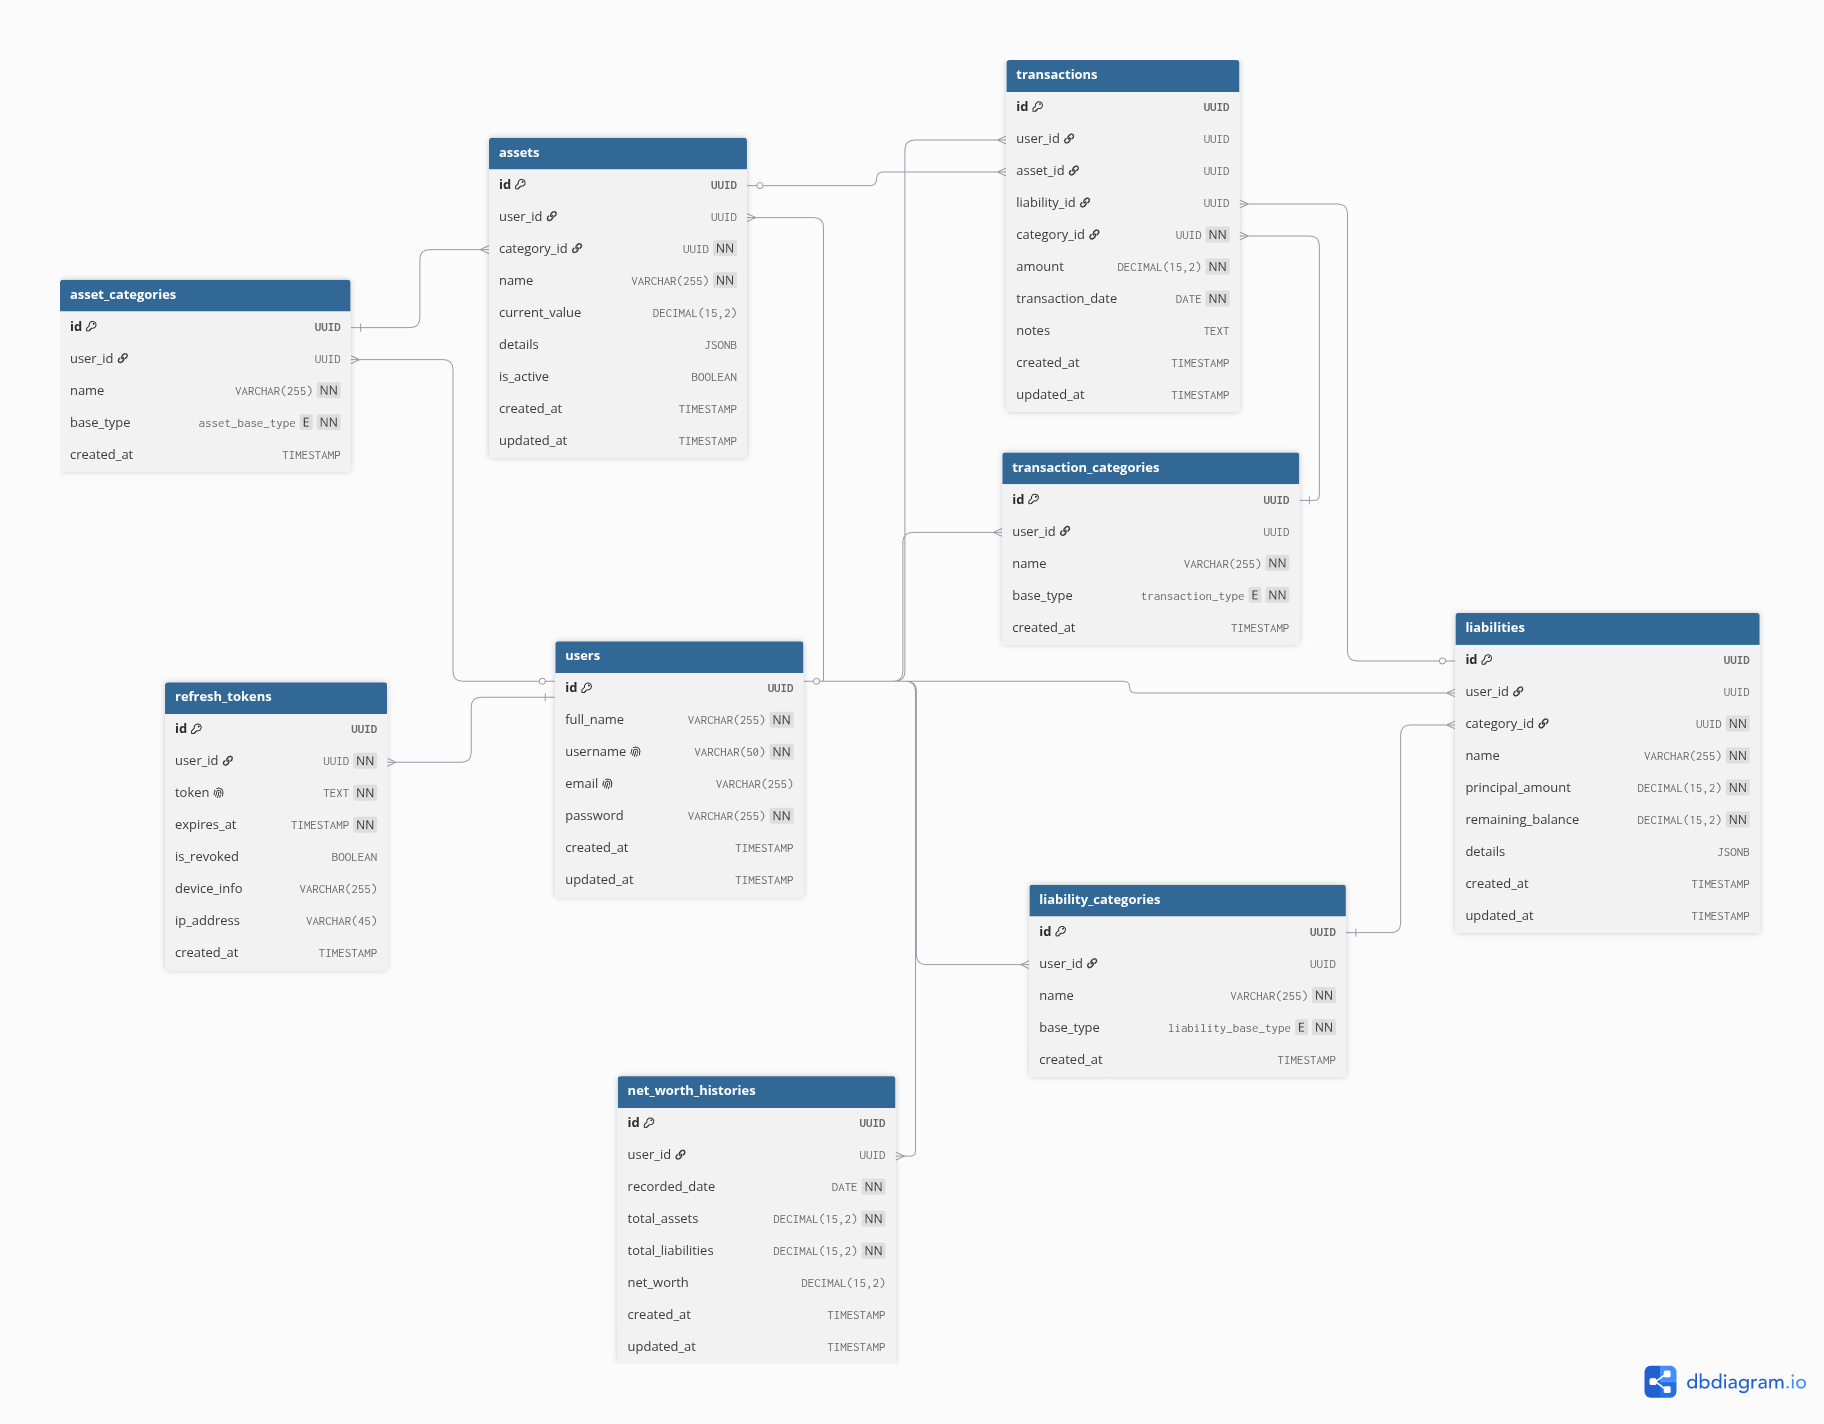
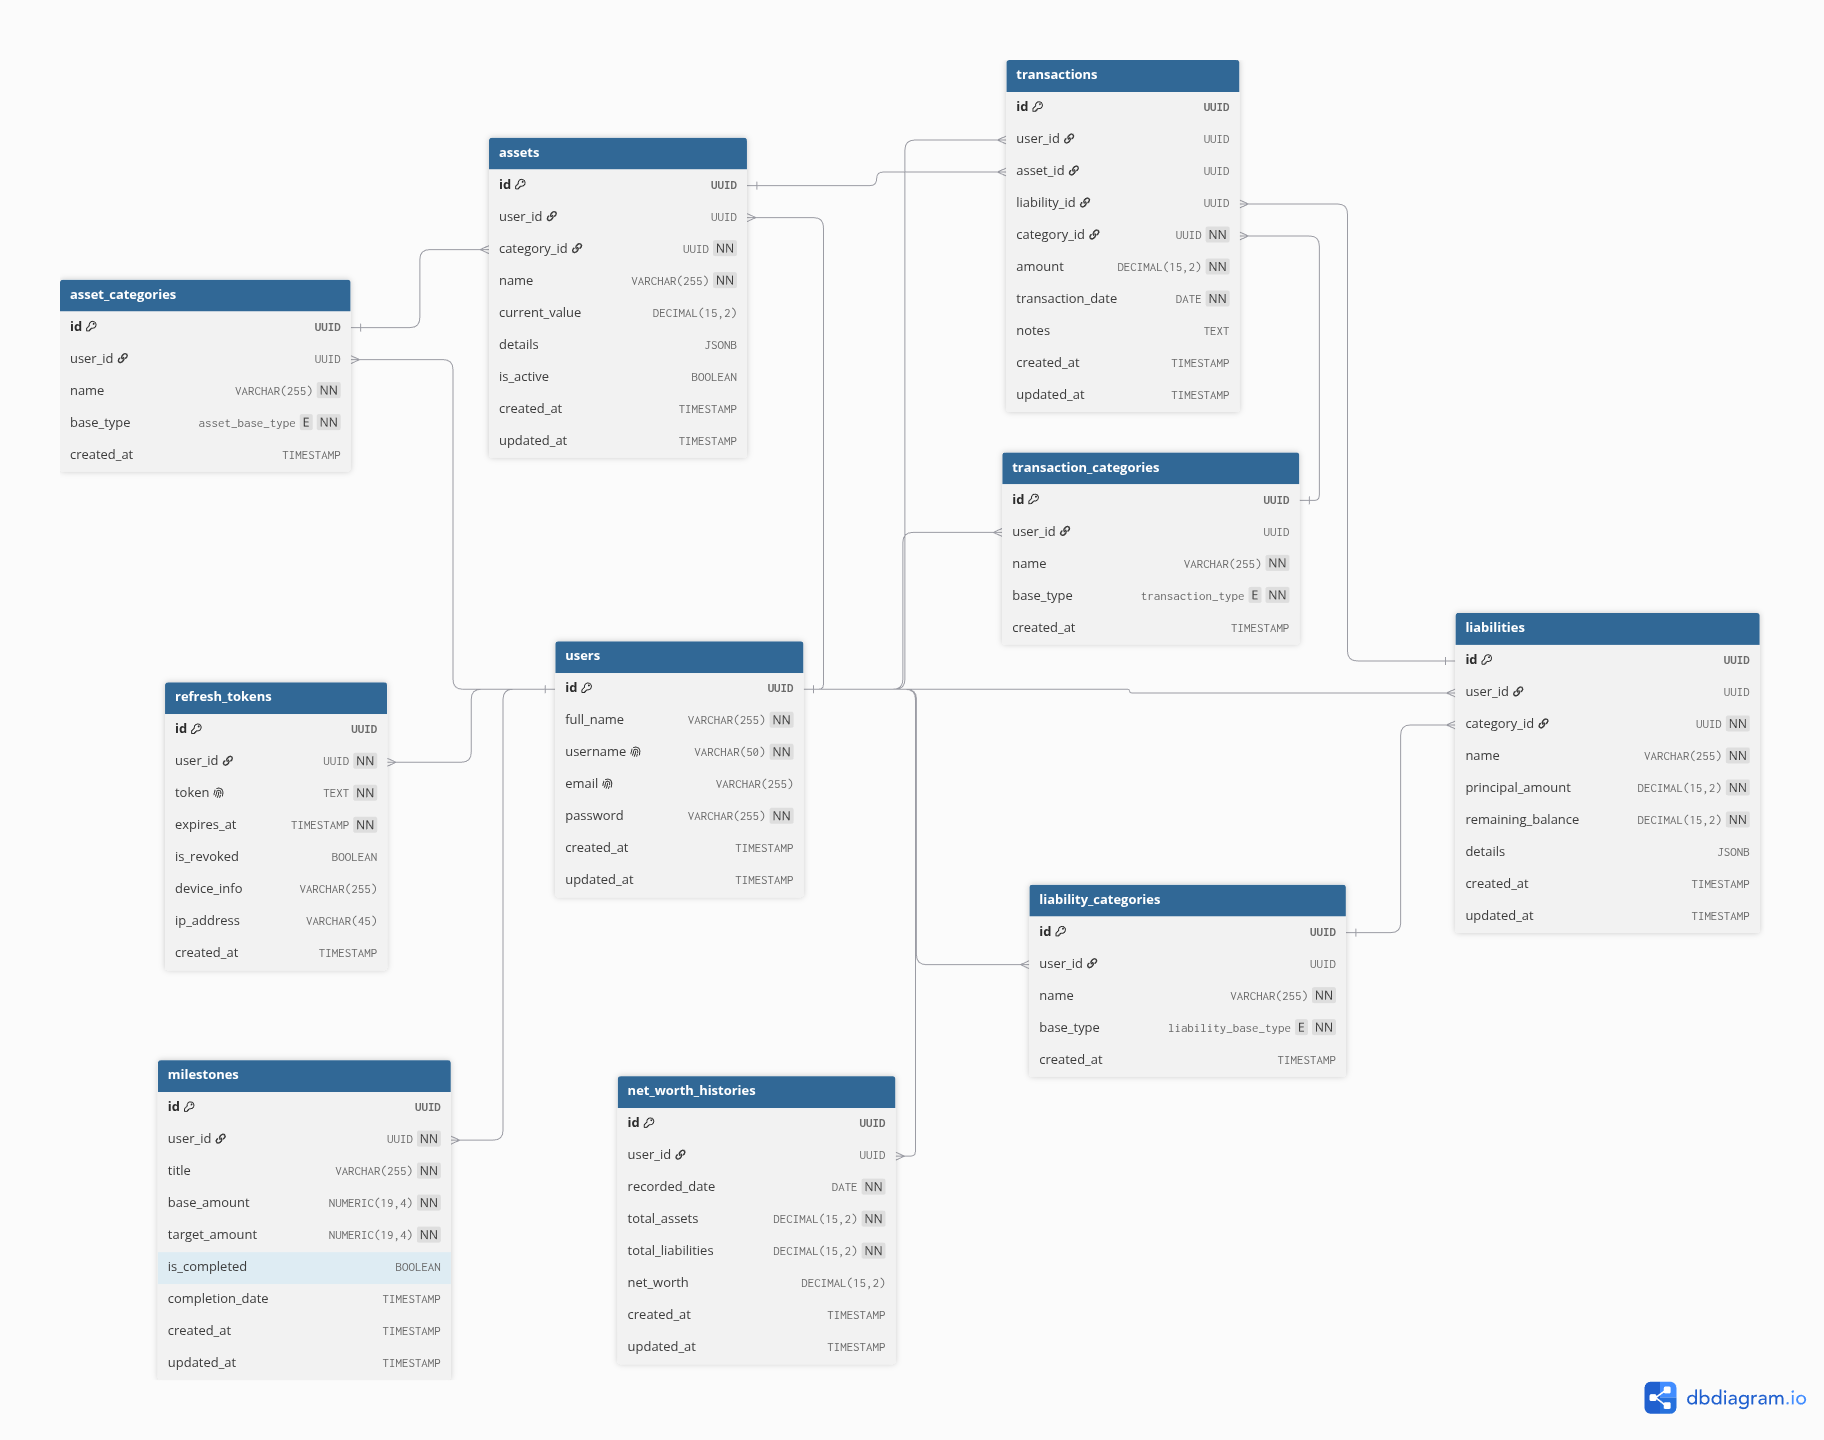
feat: insert milestone

diff --git a/internal/usecase/milestone.go b/internal/usecase/milestone.go
@@ -1,0 +1,75 @@
+package usecase
+
+import (
+	"context"
+	"log"
+	"net/http"
+
+	"github.com/fazriegi/netbase-be/internal/domain"
+	"github.com/fazriegi/netbase-be/pkg"
+	"github.com/fazriegi/netbase-be/pkg/constant"
+	"github.com/google/uuid"
+)
+
+type milestoneUsecase struct {
+	log    *log.Logger
+	repo   domain.MilestoneRepository
+	nwRepo domain.NetworthRepository
+}
+
+type MilestoneUsecase interface {
+	Create(ctx context.Context, req *domain.CreateMilestoneRequest) (resp pkg.Response)
+}
+
+func NewMilestoneUsecase(log *log.Logger, repo domain.MilestoneRepository, nwRepo domain.NetworthRepository) MilestoneUsecase {
+	return &milestoneUsecase{log, repo, nwRepo}
+}
+
+func (u *milestoneUsecase) Create(ctx context.Context, req *domain.CreateMilestoneRequest) (resp pkg.Response) {
+	userId := ctx.Value("user_id").(uuid.UUID)
+
+	networth, err := u.nwRepo.GetCurrent(ctx, userId)
+	if err != nil {
+		u.log.Printf("[ERROR] nwRepo.GetCurrent: %s", err.Error())
+		return pkg.NewResponse(http.StatusInternalServerError, constant.ErrServer, nil, nil)
+	}
+
+	if req.TargetAmount.LessThanOrEqual(networth.NetWorth) {
+		return pkg.NewResponse(http.StatusBadRequest, "Target amount must be greater than networth", nil, nil)
+	}
+
+	baseAmount := networth.NetWorth
+
+	milestoneData, err := u.repo.GetCurrent(ctx, &domain.GetMilestone{
+		UserId: userId,
+		Title:  req.Title,
+	})
+	if err != nil {
+		u.log.Printf("[ERROR] repo.GetCurrent: %s", err.Error())
+		return pkg.NewResponse(http.StatusInternalServerError, constant.ErrServer, nil, nil)
+	}
+
+	if milestoneData != nil {
+		err = u.repo.Delete(ctx, milestoneData.ID)
+		if err != nil {
+			u.log.Printf("[ERROR] repo.Delete: %s", err.Error())
+			return pkg.NewResponse(http.StatusInternalServerError, constant.ErrServer, nil, nil)
+		}
+	}
+
+	milestoneDB := &domain.Milestone{
+		UserId:       userId,
+		Title:        req.Title,
+		TargetAmount: req.TargetAmount,
+		BaseAmount:   baseAmount,
+		IsCompleted:  false,
+	}
+
+	err = u.repo.Insert(ctx, milestoneDB)
+	if err != nil {
+		u.log.Printf("[ERROR] repo.Insert: %s", err.Error())
+		return pkg.NewResponse(http.StatusInternalServerError, constant.ErrServer, nil, nil)
+	}
+
+	return pkg.NewResponse(http.StatusCreated, "Success", nil, nil)
+}

diff --git a/internal/repository/milestone.go b/internal/repository/milestone.go
@@ -1,0 +1,80 @@
+package repository
+
+import (
+	"context"
+	"database/sql"
+	"errors"
+	"fmt"
+
+	"github.com/fazriegi/netbase-be/internal/domain"
+	"github.com/google/uuid"
+	"github.com/jmoiron/sqlx"
+)
+
+type milestoneRepository struct {
+	db *sqlx.DB
+}
+
+func NewMilestoneRepository(db *sqlx.DB) domain.MilestoneRepository {
+	return &milestoneRepository{db: db}
+}
+
+func (r *milestoneRepository) Insert(ctx context.Context, data *domain.Milestone) error {
+	db := getQueryer(ctx, r.db)
+	query := `
+		INSERT INTO milestones (user_id, title, base_amount, target_amount)
+		VALUES (:user_id, :title, :base_amount, :target_amount)
+	`
+
+	_, err := db.NamedExecContext(ctx, query, data)
+
+	return err
+}
+
+func (r *milestoneRepository) GetCurrent(ctx context.Context, data *domain.GetMilestone) (*domain.Milestone, error) {
+	db := getQueryer(ctx, r.db)
+	var milestone domain.Milestone
+
+	query := `
+		SELECT id, user_id, title, base_amount, target_amount, is_completed, completion_date
+		FROM milestones
+		WHERE user_id = $1
+	`
+	args := []interface{}{data.UserId}
+
+	if data.Title != "" {
+		query += fmt.Sprintf(` AND title = $%d`, len(args)+1)
+		args = append(args, data.Title)
+	}
+
+	query += ` ORDER BY created_at DESC LIMIT 1`
+
+	err := db.GetContext(ctx, &milestone, query, args...)
+	if errors.Is(err, sql.ErrNoRows) {
+		return nil, nil
+	}
+
+	return &milestone, err
+}
+
+func (r *milestoneRepository) Update(ctx context.Context, data *domain.Milestone) error {
+	db := getQueryer(ctx, r.db)
+	query := `
+		UPDATE milestones
+		SET base_amount = :base_amount, target_amount = :target_amount, updated_at = now(), 
+		    is_completed = :is_completed, completion_date = :completion_date
+		WHERE user_id = :user_id AND title = :title
+	`
+
+	_, err := db.NamedExecContext(ctx, query, data)
+
+	return err
+}
+
+func (r *milestoneRepository) Delete(ctx context.Context, id uuid.UUID) error {
+	db := getQueryer(ctx, r.db)
+	query := `DELETE FROM milestones WHERE id = $1`
+	_, err := db.ExecContext(ctx, query, id)
+
+	return err
+}

diff --git a/pkg/validator/validator.go b/pkg/validator/validator.go
@@ -7,6 +7,7 @@ import (
 	"time"
 
 	"github.com/go-playground/validator/v10"
+	"github.com/shopspring/decimal"
 )
 
 type ValidationErrResponse struct {
@@ -19,8 +20,9 @@ func ValidateRequest(data any) []ValidationErrResponse {
 	var validationErrors []ValidationErrResponse
 
 	validate := validator.New()
-	validate.RegisterValidation("password", password) // register custom validator
-	validate.RegisterValidation("date", date)         // register custom validator
+	validate.RegisterValidation("password", password)        // register custom validator
+	validate.RegisterValidation("date", date)                // register custom validator
+	validate.RegisterValidation("decimal", decimalValidator) // register custom validator
 
 	validate.RegisterTagNameFunc(func(fld reflect.StructField) string {
 		name := fld.Tag.Get("json")
@@ -98,4 +100,57 @@ func date(fl validator.FieldLevel) bool {
 	}
 
 	return true
+}
+
+func decimalValidator(fl validator.FieldLevel) bool {
+	field := fl.Field()
+
+	var d decimal.Decimal
+
+	switch v := field.Interface().(type) {
+	case decimal.Decimal:
+		d = v
+	case *decimal.Decimal:
+		if v == nil {
+			return true
+		}
+		d = *v
+	case string:
+		if v == "" {
+			return true
+		}
+		parsed, err := decimal.NewFromString(v)
+		if err != nil {
+			return false
+		}
+		d = parsed
+	default:
+		if field.Kind() == reflect.String {
+			str := field.String()
+			if str == "" {
+				return true
+			}
+			parsed, err := decimal.NewFromString(str)
+			if err != nil {
+				return false
+			}
+			d = parsed
+		} else {
+			return false
+		}
+	}
+
+	param := fl.Param()
+	switch param {
+	case "gt=0", "positive":
+		return d.GreaterThan(decimal.Zero)
+	case "gte=0":
+		return d.GreaterThanOrEqual(decimal.Zero)
+	case "lt=0":
+		return d.LessThan(decimal.Zero)
+	case "lte=0":
+		return d.LessThanOrEqual(decimal.Zero)
+	default:
+		return true
+	}
 }

diff --git a/internal/domain/milestone.go b/internal/domain/milestone.go
@@ -1,0 +1,50 @@
+package domain
+
+import (
+	"context"
+	"time"
+
+	"github.com/google/uuid"
+	"github.com/shopspring/decimal"
+)
+
+// type MilestoneDB struct {
+// 	ID             uuid.UUID       `db:"id"`
+// 	UserId         uuid.UUID       `db:"user_id"`
+// 	Title          string          `db:"title"`
+// 	BaseAmount     decimal.Decimal `db:"base_amount"`
+// 	TargetAmount   decimal.Decimal `db:"target_amount"`
+// 	IsCompleted    bool            `db:"is_completed"`
+// 	CompletionDate *time.Time      `db:"completion_date"`
+// 	CreatedAt      time.Time       `db:"created_at"`
+// 	UpdatedAt      time.Time       `db:"updated_at"`
+// }
+
+type Milestone struct {
+	ID             uuid.UUID       `db:"id" json:"id"`
+	UserId         uuid.UUID       `db:"user_id" json:"-"`
+	Title          string          `db:"title" json:"title"`
+	BaseAmount     decimal.Decimal `db:"base_amount" json:"base_amount"`
+	TargetAmount   decimal.Decimal `db:"target_amount" json:"target_amount"`
+	IsCompleted    bool            `db:"is_completed" json:"is_completed"`
+	CompletionDate *time.Time      `db:"completion_date" json:"completion_date"`
+	CreatedAt      time.Time       `db:"created_at" json:"-"`
+	UpdatedAt      time.Time       `db:"updated_at" json:"-"`
+}
+
+type CreateMilestoneRequest struct {
+	Title        string          `json:"title" validate:"required,max=255"`
+	TargetAmount decimal.Decimal `json:"target_amount" validate:"required,decimal"`
+}
+
+type GetMilestone struct {
+	UserId uuid.UUID `json:"user_id"`
+	Title  string    `json:"title"`
+}
+
+type MilestoneRepository interface {
+	Insert(ctx context.Context, data *Milestone) error
+	GetCurrent(ctx context.Context, data *GetMilestone) (*Milestone, error)
+	Update(ctx context.Context, data *Milestone) error
+	Delete(ctx context.Context, id uuid.UUID) error
+}

diff --git a/internal/delivery/http/handler/milestone.go b/internal/delivery/http/handler/milestone.go
@@ -1,0 +1,52 @@
+package handler
+
+import (
+	"encoding/json"
+	"log"
+	"net/http"
+
+	"github.com/fazriegi/netbase-be/internal/delivery/http/middleware"
+	"github.com/fazriegi/netbase-be/internal/domain"
+	"github.com/fazriegi/netbase-be/internal/usecase"
+	"github.com/fazriegi/netbase-be/pkg"
+	"github.com/fazriegi/netbase-be/pkg/constant"
+	"github.com/fazriegi/netbase-be/pkg/validator"
+)
+
+type MilestoneHandler struct {
+	usecase usecase.MilestoneUsecase
+	logger  *log.Logger
+}
+
+func NewMilestoneHandler(mux *http.ServeMux, uc usecase.MilestoneUsecase, logger *log.Logger) {
+	handler := &MilestoneHandler{
+		usecase: uc,
+		logger:  logger,
+	}
+
+	mux.Handle("POST /v1/milestones", middleware.MiddlewareAuth(http.HandlerFunc(handler.Create)))
+}
+
+func (h *MilestoneHandler) Create(w http.ResponseWriter, r *http.Request) {
+	var req domain.CreateMilestoneRequest
+
+	if err := json.NewDecoder(r.Body).Decode(&req); err != nil {
+		pkg.NewResponse(http.StatusBadRequest, constant.ErrInvalidJson, nil, nil).HTTP(w)
+		return
+	}
+
+	// validation
+	validationErr := validator.ValidateRequest(&req)
+
+	if len(validationErr) > 0 {
+		errResponse := map[string]any{
+			"errors": validationErr,
+		}
+
+		pkg.NewResponse(http.StatusUnprocessableEntity, constant.ErrValidation, errResponse, nil).HTTP(w)
+		return
+	}
+
+	response := h.usecase.Create(r.Context(), &req)
+	response.HTTP(w)
+}

diff --git a/internal/delivery/http/handler/handler.go b/internal/delivery/http/handler/handler.go
@@ -39,6 +39,10 @@ func New(db *sqlx.DB, logger *log.Logger) http.Handler {
 	transactionRepo := repository.NewTransactionRepository(db)
 	transactionUC := usecase.NewTransactionUsecase(logger, transactionRepo, txManager, assetRepo, liabilityRepo)
 
+	// MILESTONE
+	milestoneRepo := repository.NewMilestoneRepository(db)
+	milestoneUC := usecase.NewMilestoneUsecase(logger, milestoneRepo, networthRepo)
+
 	// DASHBOARD
 	dashboardUC := usecase.NewDashboardUsecase(logger, transactionRepo)
 
@@ -49,6 +53,7 @@ func New(db *sqlx.DB, logger *log.Logger) http.Handler {
 	NewLiabilityHandler(mux, liabilityUC, logger)
 	NewNetworthHandler(mux, networthUC, logger)
 	NewTransactionHandler(mux, transactionUC, logger)
+	NewMilestoneHandler(mux, milestoneUC, logger)
 	NewDashboardHandler(mux, dashboardUC, logger)
 
 	origin := os.Getenv("ALLOWED_ORIGIN")
